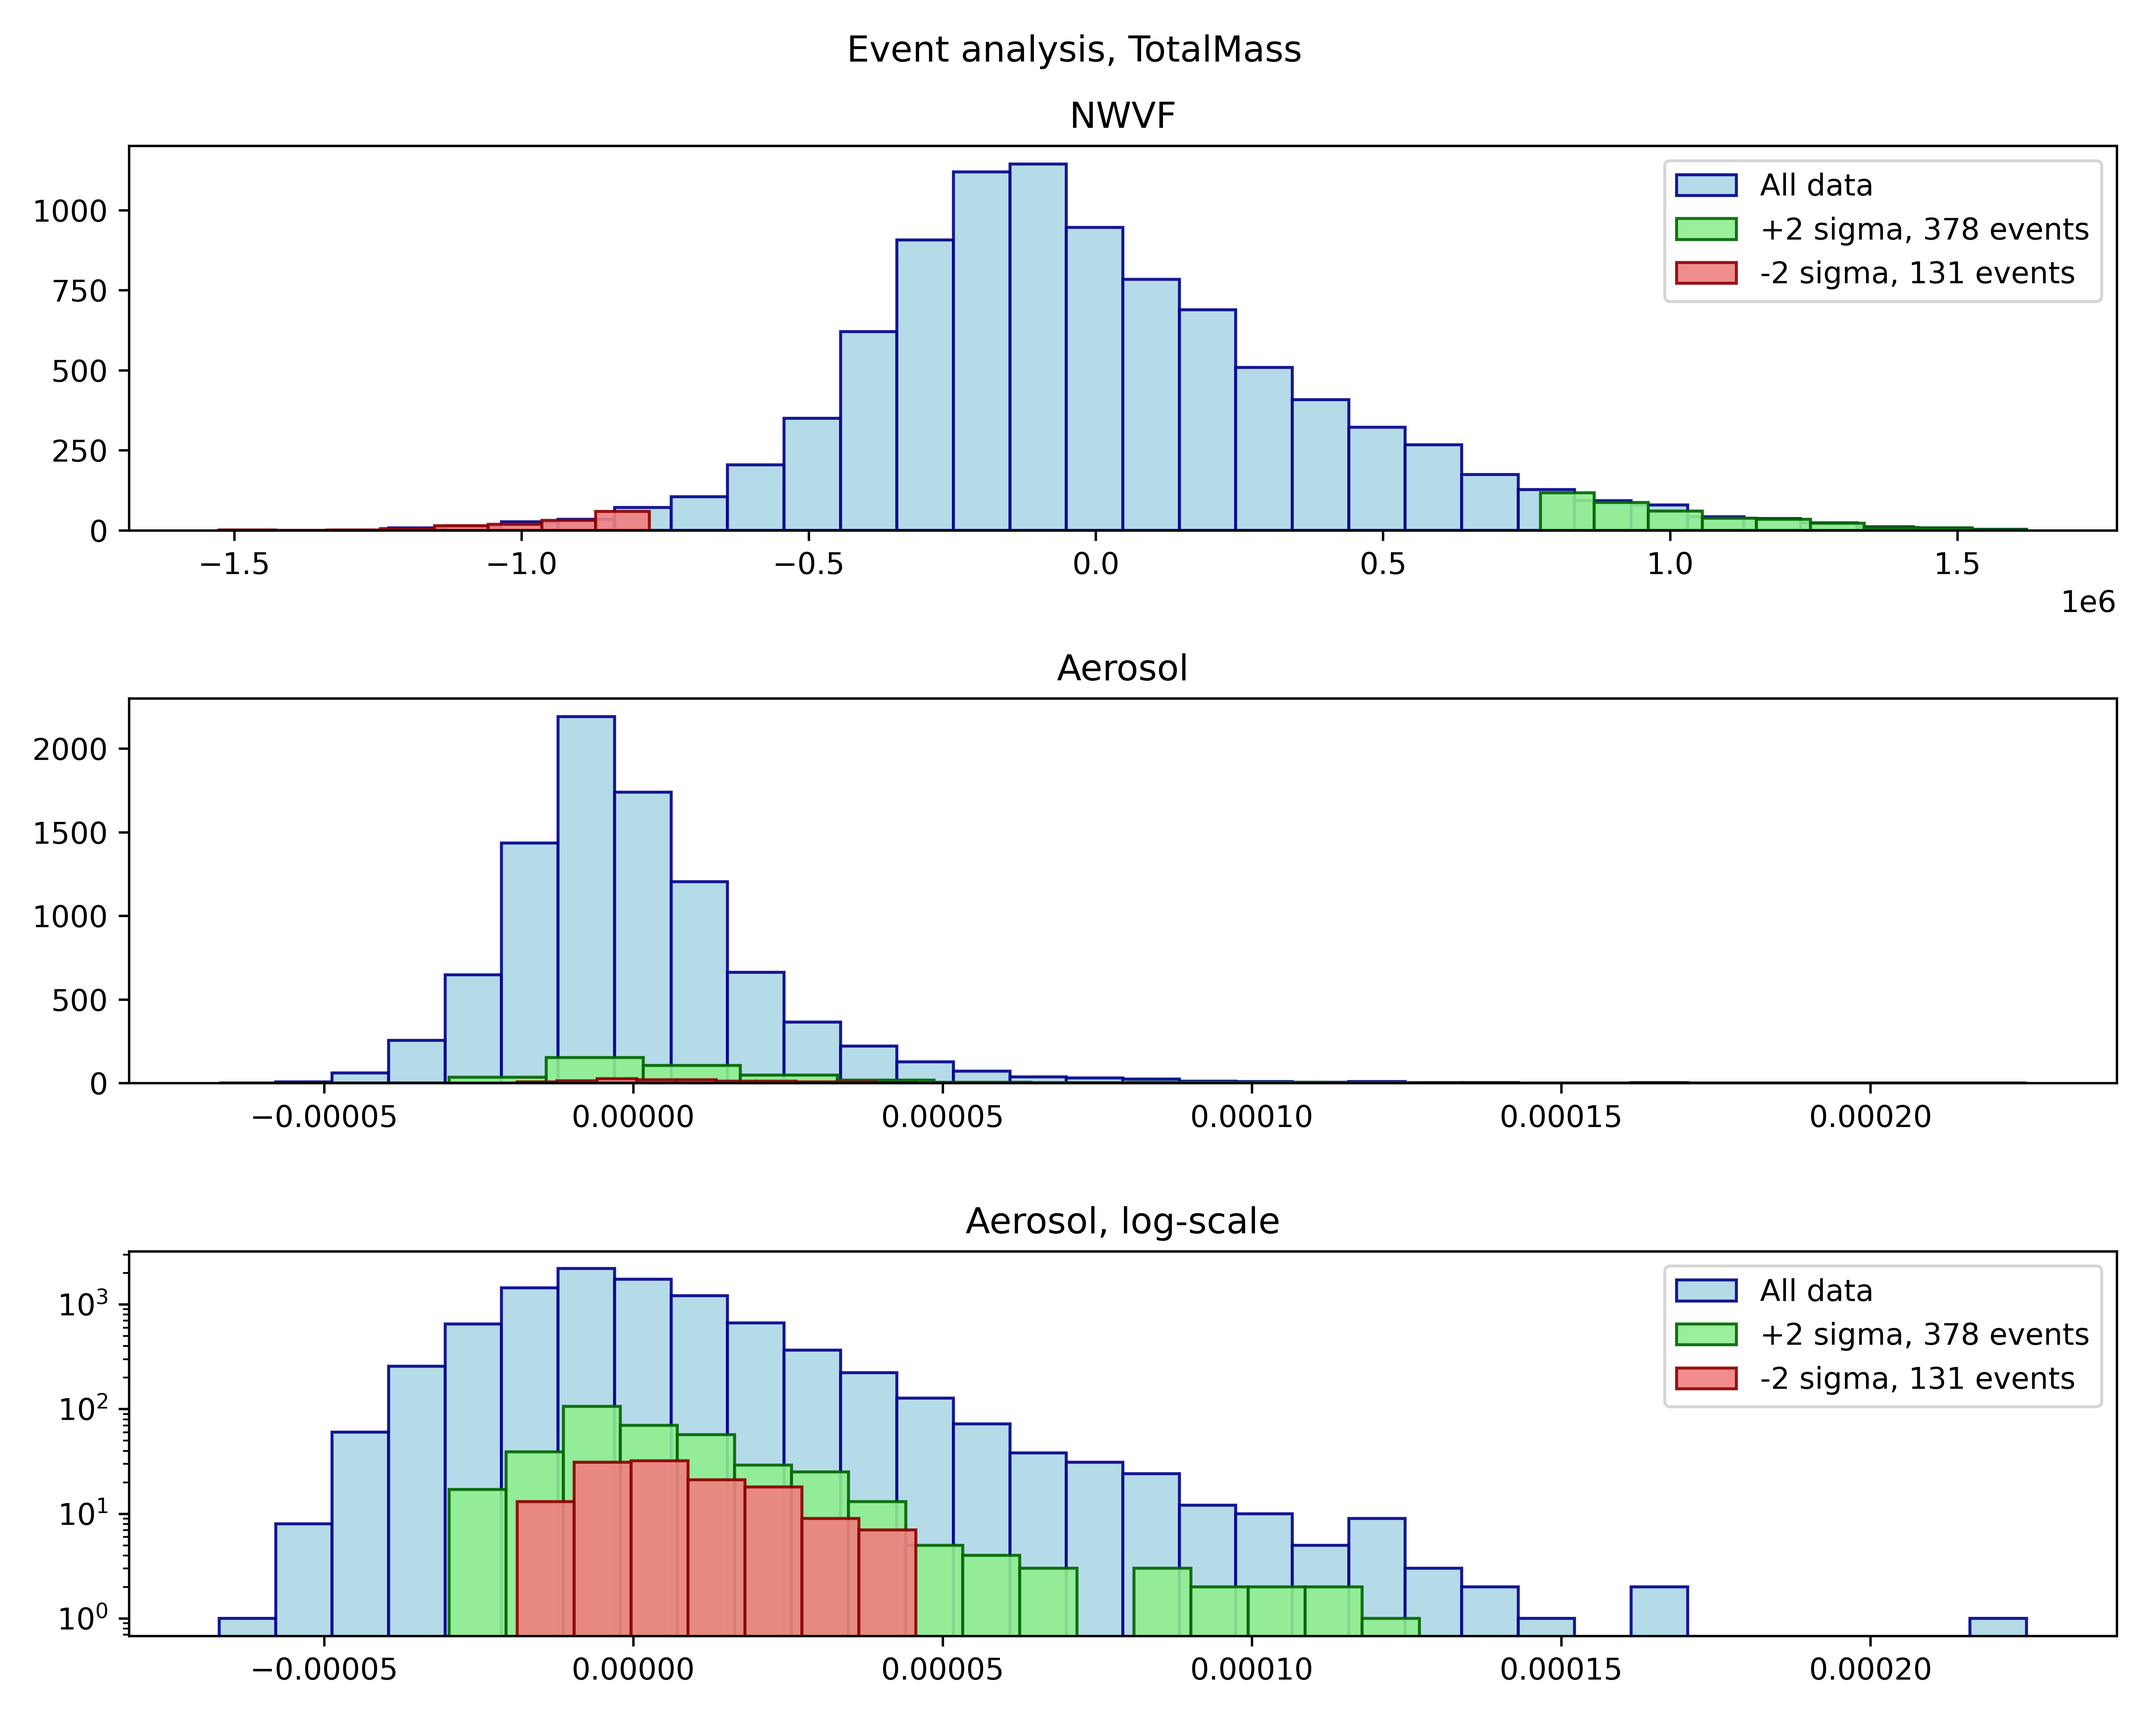
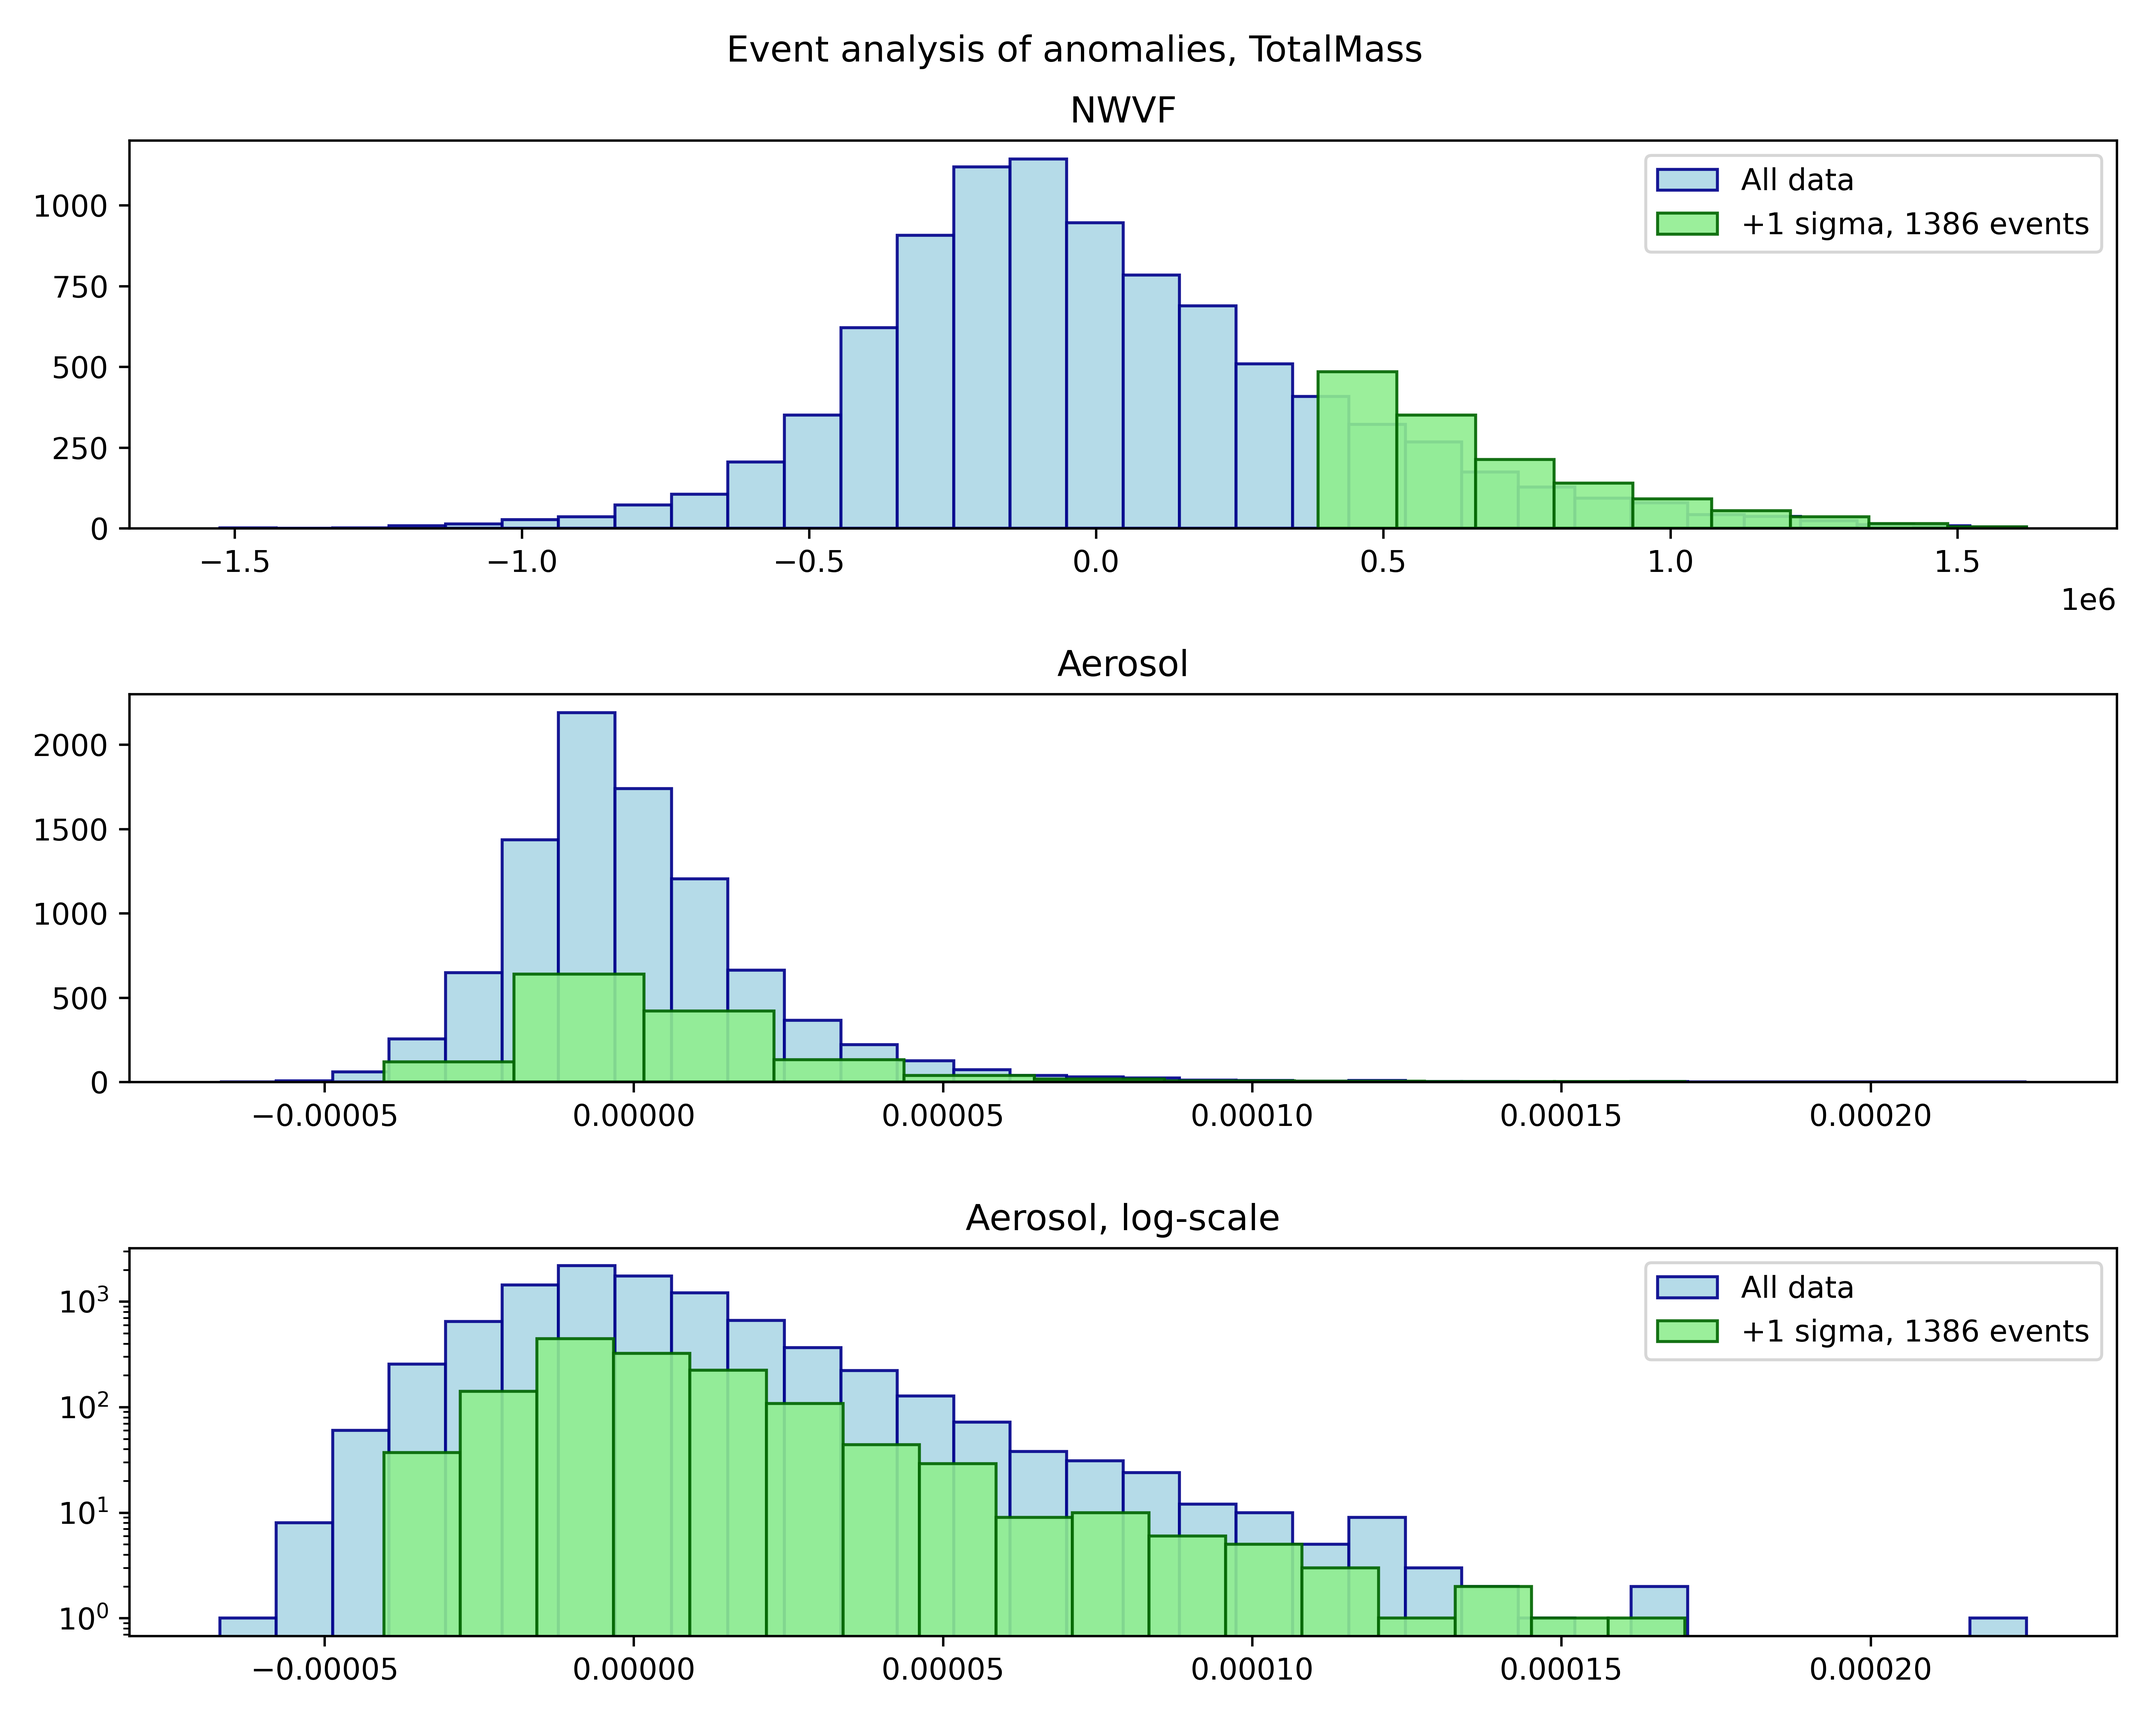
Clean up in figures.

diff --git a/Scripts/Analysis/timeseries_analysis.py b/Scripts/Analysis/timeseries_analysis.py
@@ -1,10 +1,16 @@
+'''
+
+'''
+
 import os
 
 import pandas as pd
 import numpy as np
-import netCDF4 as nc
 import xarray as xr
 import matplotlib.pyplot as plt
+
+from scipy.stats import ks_2samp
+from statsmodels.distributions.empirical_distribution import ECDF
 
 # Save figures?
 SAVE_FIGS = True
@@ -35,12 +41,18 @@ class Climatology:
         self.climatology_smooth = self.calculate_smoothed_climatology(self.n_days)
 
     def calculate_climatology(self):
+        '''
+        
+        '''
         # Calculate the daily mean and std of both NWVF and aerosol (1. jan, 2. jan,..., 31. dec)
         self.df['day'] = self.df[self.date_column].dt.dayofyear
         climatology = self.df.groupby('day').agg(['mean', 'std'])
         return climatology
 
     def extend_climatology(self):
+        '''
+        
+        '''
         # Extend the climatology to include February 29
         # Fill February 29 with average of Feb 28 and Mar 1 if missing
         climatology_template = pd.DataFrame(index=pd.date_range('2000-01-01', '2000-12-31'))
@@ -53,6 +65,9 @@ class Climatology:
         return climatology_full
 
     def calculate_smoothed_climatology(self, n_days):
+        '''
+        
+        '''
         # Make a (circular) smoothed version of the climatology and add column with day of year in format 'MM-DD' and account for leap years
         # Define number of days to pad the climatology with at the beginning and end of the year
         pad_length = n_days // 2
@@ -65,6 +80,9 @@ class Climatology:
         return climatology_smooth
 
     def calculate_anomalies(self, df):
+        '''
+        
+        '''
         anomalies = pd.DataFrame()
         for year in df[self.date_column].dt.year.unique():
             # Extract data for the specific year
@@ -119,7 +137,7 @@ class EventAnalysis:
         self.nwvf_name = nwvf_name
         self.n_sigmas = n_sigmas
         self.aerosol_stats, self.nwvf_stats = self.calculate_statistical_params()
-        import matplotlib.pyplot as plt
+        
     
     def calculate_statistical_params(self):
         '''
@@ -447,12 +465,13 @@ if SAVE_FIGS:
 # EVENT ANALYSIS #
 ##################
 
+sigma_ns = 1
 # Loop through all aerosol anomaly dataframes and perform event analysis
 for i, aerosol_anomaly_df in enumerate(aerosol_anomaly_dfs):
     # Get the aerosol name
     aerosol_name = aerosol_types[i]
     # Create an EventAnalysis object
-    event_analysis = EventAnalysis(aerosol_anomaly_df, 'anomaly', NWVF_anomalies, 'anomaly', n_sigmas=2)
+    event_analysis = EventAnalysis(aerosol_anomaly_df, 'anomaly', NWVF_anomalies, 'anomaly', n_sigmas=sigma_ns)
     # Plot the data
     fig, (ax1, ax2) = event_analysis.plot_all_data(bins_nwvf=32, bins_aerosol=32, show_figs=False, save_figs=False, save_path=None, plot_events_pos=True,
                         plot_events_neg=True)
@@ -465,61 +484,53 @@ for i, aerosol_anomaly_df in enumerate(aerosol_anomaly_dfs):
     if SAVE_FIGS:
         fig.savefig(PATH_AEROSOL + 'AnomalyTimeseries_' + aerosol_name + region_str + '.png', dpi=600)
 
-    # Mask the data based on the statistical parameters
+    # Mask the data based on the statistical parameters (e.g. 1 sigma)
     masked_nwvf_data_pos, masked_nwvf_data_neg, masked_aerosol_data_pos, masked_aerosol_data_neg = event_analysis.mask_data_by_stats()
     # Plot histograms of masked data
     fig, ax = plt.subplots(3, 1, figsize=(10, 8))
-    fig.suptitle(f'Event analysis, {aerosol_name}')
+    fig.suptitle(f'Event analysis of anomalies, {aerosol_name}')
 
+    # Get the data from the histograms (values and bins) for CDF calculation
     ax[0].hist(NWVF_anomalies['anomaly'],
-                    bins=32,
-                    alpha=0.9,
-                    label=f'All data',
-                    ec='darkblue',
-                    fc='lightblue')
+                bins=32,
+                alpha=0.9,
+                label='All data',
+                ec='darkblue',
+                fc='lightblue')
+    
     ax[0].hist(masked_nwvf_data_pos,
-            bins=9,
-            alpha=0.9,
-            label=F'+{2} sigma, {len(masked_nwvf_data_pos)} events',
-            ec='darkgreen',
-            fc='lightgreen')
-    ax[0].hist(masked_nwvf_data_neg,
-            bins=8,
-            alpha=0.9,
-            label=f'-{2} sigma, {len(masked_nwvf_data_neg)} events',
-            ec='darkred',
-            fc='lightcoral')
+                bins=9,
+                alpha=0.9,
+                label=F'+{sigma_ns} sigma, {len(masked_nwvf_data_pos)} events',
+                ec='darkgreen',
+                fc='lightgreen')
+
     ax[0].set_title('NWVF')
     ax[0].legend()
-    ax[1].hist(aerosol_anomaly_df['anomaly'],
-            bins=32,
-            alpha=0.9,
-            label=f'All data',
-            ec='darkblue',
-            fc='lightblue'
-            )
-    ax[1].hist(masked_aerosol_data_pos,
-        bins=10,
-        alpha=0.9,
-        label=F'+{2} sigma, {len(masked_aerosol_data_pos)} events',
-        ec='darkgreen',
-        fc='lightgreen'
-        )
-    ax[1].hist(masked_aerosol_data_neg,
-        bins=10,
-        alpha=0.9,
-        label=f'-{2} sigma, {len(masked_aerosol_data_neg)} events',
-        ec='darkred',
-        fc='lightcoral'
-        )
-    ax[1].set_title('Aerosol')
 
+
+    ax[1].hist(aerosol_anomaly_df['anomaly'],
+                bins=32,
+                alpha=0.9,
+                label='All data',
+                ec='darkblue',
+                fc='lightblue'
+                )
+    
+    ax[1].hist(masked_aerosol_data_pos,
+                bins=10,
+                alpha=0.9,
+                label=F'+{sigma_ns} sigma, {len(masked_aerosol_data_pos)} events',
+                ec='darkgreen',
+                fc='lightgreen'
+                )
+    ax[1].set_title('Aerosol')
 
 
     ax[2].hist(aerosol_anomaly_df['anomaly'],
                 bins=32,
                 alpha=0.9,
-                label=f'All data',
+                label='All data',
                 ec='darkblue',
                 fc='lightblue',
                 log=True
@@ -527,30 +538,61 @@ for i, aerosol_anomaly_df in enumerate(aerosol_anomaly_dfs):
     ax[2].hist(masked_aerosol_data_pos,
             bins=17,
             alpha=0.9,
-            label=F'+{2} sigma, {len(masked_aerosol_data_pos)} events',
+            label=F'+{sigma_ns} sigma, {len(masked_aerosol_data_pos)} events',
             ec='darkgreen',
             fc='lightgreen',
             log=True
             )
-    ax[2].hist(masked_aerosol_data_neg,
-            bins=7,
-            alpha=0.9,
-            label=f'-{2} sigma, {len(masked_aerosol_data_neg)} events',
-            ec='darkred',
-            fc='lightcoral',
-            log=True
-            )
+
     ax[2].set_title('Aerosol, log-scale')
     ax[2].legend()
 
     fig.tight_layout()
 
-
     # save figures
     if SAVE_FIGS:
         fig.savefig(PATH_AEROSOL + '/' + f'EventAnalysis_{aerosol_name}' + region_str + '.png', dpi=600)
 
+
+    # Use np.sort to get the CDF values 
+    x_nwvf = np.sort(NWVF_anomalies['anomaly'])
+    f_nwvf = np.arange(len(x_nwvf)) / float(len(x_nwvf))
+    x_aerosol = np.sort(aerosol_anomaly_df['anomaly'])
+    f_aerosol = np.arange(len(x_aerosol)) / float(len(x_aerosol))
+    x_masked_nwvf = np.sort(masked_nwvf_data_pos)
+    f_masked_nwvf = np.arange(len(x_masked_nwvf)) / float(len(x_masked_nwvf))
+    x_masked_aerosol = np.sort(masked_aerosol_data_pos)
+    f_masked_aerosol = np.arange(len(x_masked_aerosol)) / float(len(x_masked_aerosol))
+
+
+    # Make KS-test on aerosol vs. masked aerosol
+    ks_aerosol, p_aerosol = ks_2samp(aerosol_anomaly_df['anomaly'], masked_aerosol_data_pos)
+    print(f'KS-test aerosol vs. masked aerosol, {aerosol_name}: KS={ks_aerosol:.4f}, p={p_aerosol:.4f}')
+
+
+    # Plot CDFs
+    fig, ax = plt.subplots(2, 1, figsize=(10, 8))
+    fig.suptitle(f'CDF of anomalies, {aerosol_name}, KS-test: KS={ks_aerosol:.4f}, p={p_aerosol:.4f}')
+
+    ax[0].plot(x_nwvf, f_nwvf, label='NWVF', color='teal')
+    # ax[0].plot(x_masked_nwvf, f_masked_nwvf, label='NWVF masked', color='green')
+    ax[0].set_title('NWVF')
+    ax[0].legend()
+
+    ax[1].plot(x_aerosol, f_aerosol, label='Aerosol', color='teal')
+    ax[1].plot(x_masked_aerosol, f_masked_aerosol, label='Aerosol masked', color='green')
+    ax[1].set_title('Aerosol')
+    ax[1].legend()
+
+    fig.tight_layout()
+    
+
+
+
+
+
     plt.show()
+    break
 
 
 

diff --git a/Scripts/model_aerosol_event_analysis.py b/Scripts/model_aerosol_event_analysis.py
@@ -75,7 +75,7 @@ if __name__ == '__main__':
     
 
 
-    n_sigmas = 2
+    n_sigmas = 1
 
     # Loop through the different aerosols and perform the event analysis
     
@@ -99,7 +99,7 @@ if __name__ == '__main__':
                                           bins_aerosol,
                                           'ArcticSlice_small',
                                           show_figs=True,
-                                          save_figs=True,
+                                          save_figs=False,
                                           save_path='/Users/au728490/Documents/PhD_AU/Python_Scripts/MAIA_ERA5_Download/Figures/MERRA/ArcticSlice_small/',
                                           plot_events_neg=False
                                           )
